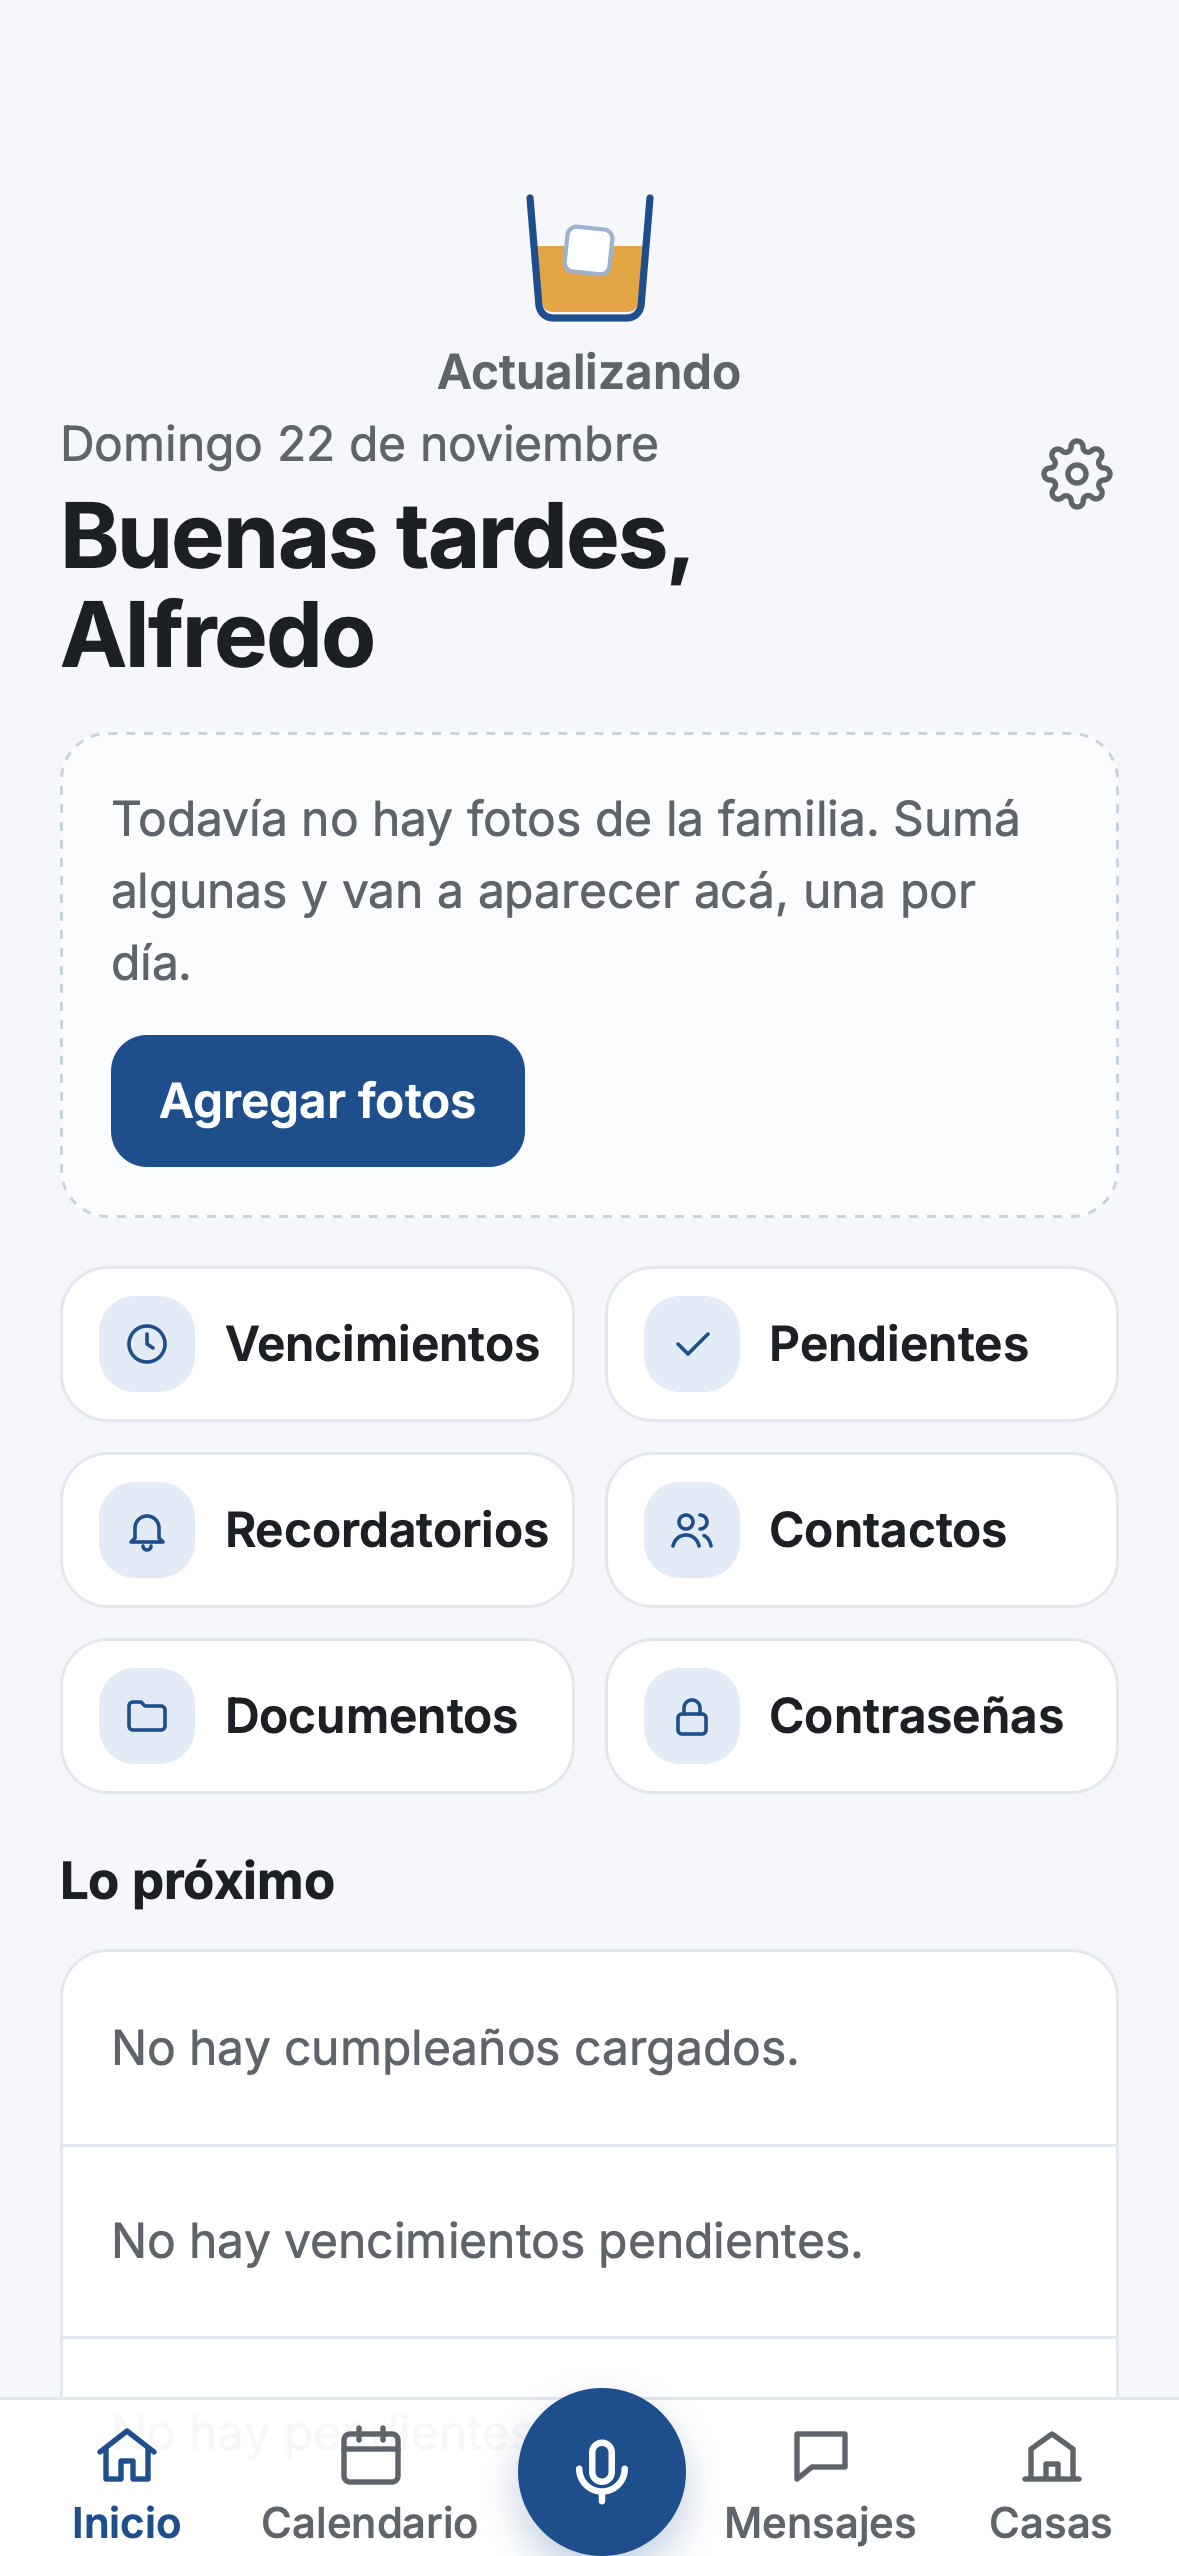
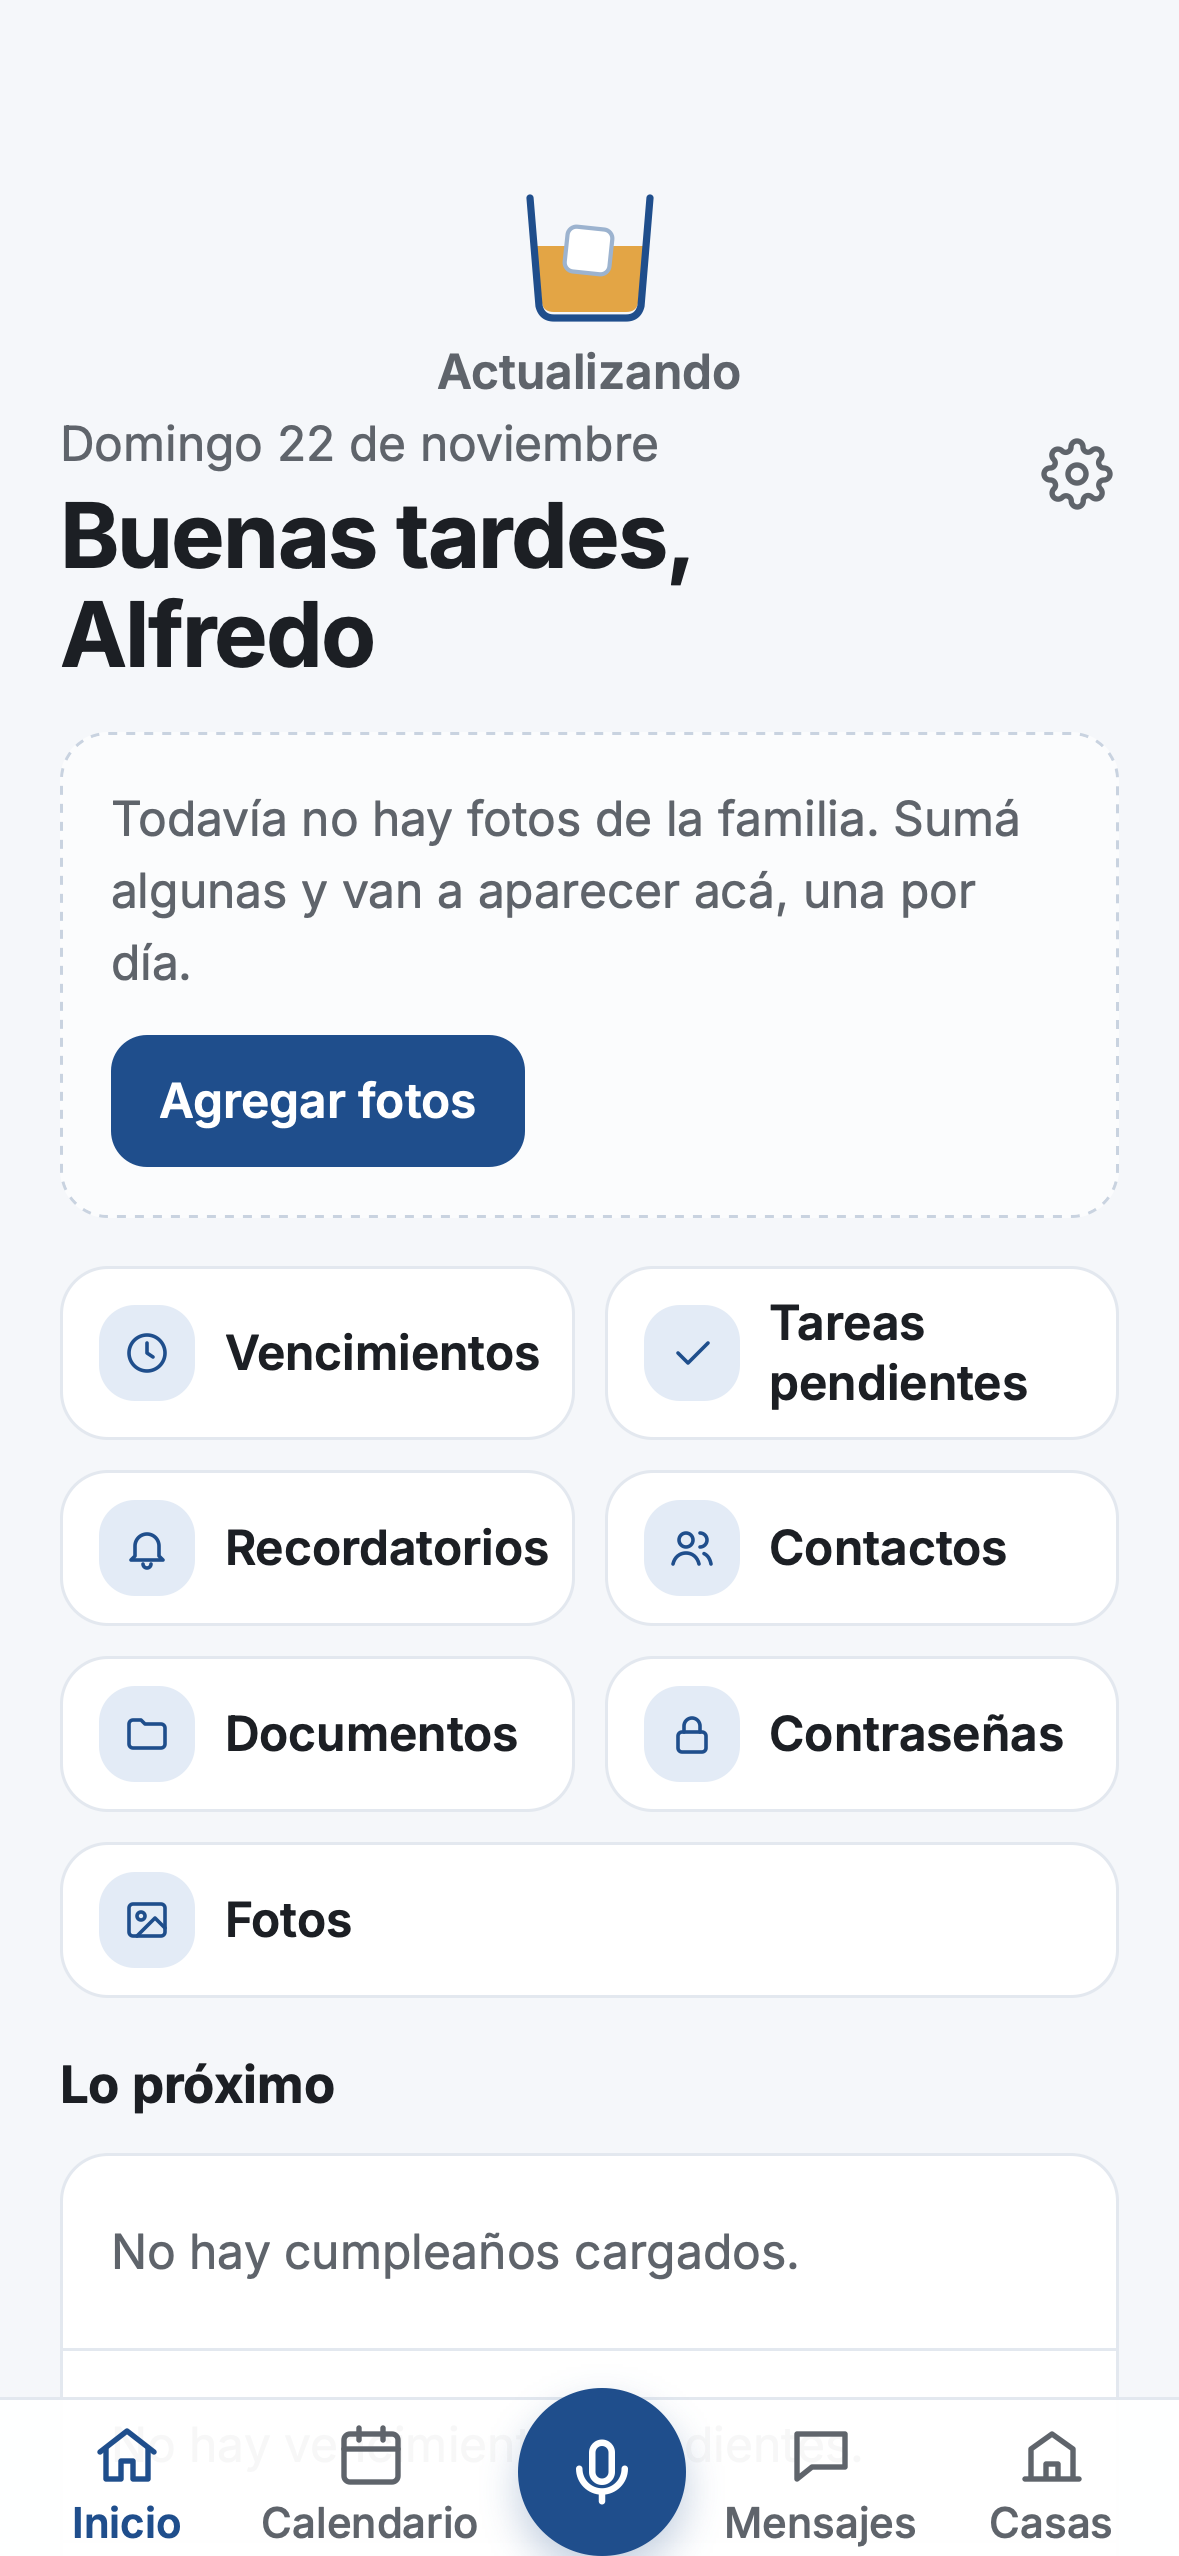
docs: review screenshots of round 4 (AlfredIA, recurrence, postpone, photos)
51 numbered screenshots in docs/capturas-revision/ (iPhone 15, WebKit). New in this
round (42–51): the cabezón intro (golf and padel), Inicio with the Fotos access and
"Ver todas", Calendario with a weekly "Otra" date, the reminder form with "Se repite"
and the gray "Elegí", the postpone sheet, the photo framing preview and the big photo.
Screens 01–41 are retaken with the round 4 changes ("Tareas pendientes", the Flor alone).

diff --git a/tests/e2e/capturas.spec.ts b/tests/e2e/capturas.spec.ts
@@ -115,7 +115,7 @@ test('captura calendario el día del cumple y el saludo @capturas', async ({ pag
   await resetear(page, { hoy: '2026-11-25', config: { nombre: 'Alfredo' }, datos: { fechas: [
     { nombre: 'Ana Pérez', tipo: 'cumple', dia: '11-25', anioNacimiento: 1990 },
     { nombre: 'Día del abuelo', tipo: 'otra', dia: '11-30' },
-    { nombre: 'Luis y Marta', tipo: 'aniversario', dia: '12-03' },
+    { nombre: 'Aniversario de Luis y Marta', tipo: 'otra', dia: '12-03' },
     { nombre: 'Sofía Rodríguez', tipo: 'cumple', dia: '12-08', anioNacimiento: 1985 },
   ] } })
   await entrarComo(page, 'owner')
@@ -234,3 +234,84 @@ test('captura brindis del 25 de noviembre (whisky) @capturas', async ({ page }, 
   await page.waitForTimeout(2600)
   await foto(page, 'detalle-brindis', info.project.name)
 })
+
+// ── Ronda 4 ──────────────────────────────────────────────────────────────────────────────────────────────────────
+test('captura calendario: otra fecha que se repite @capturas', async ({ page }, info) => {
+  await resetear(page, { hoy: '2026-11-22', config: { nombre: 'Alfredo' } })
+  await entrarComo(page, 'owner')
+  await page.goto('/calendario')
+  const agregar = page.getByRole('button', { name: 'Agregar fecha' })
+  await hidratado(agregar)
+  await agregar.click()
+  const hoja = page.getByRole('dialog', { name: 'Nueva fecha' })
+  await hoja.getByLabel('Nombre').fill('Truco en el club')
+  await hoja.getByRole('radio', { name: 'Otra' }).click()
+  await hoja.getByLabel('Se repite').selectOption('semanal')
+  await hoja.getByLabel('Día', { exact: true }).selectOption('5')
+  await hoja.getByLabel('Mes').selectOption('11')
+  await hoja.getByLabel('Año (desde)').fill('2026')
+  await hoja.getByLabel('Hora (opcional)').fill('18:30')
+  await foto(page, 'r4-calendario-otra-se-repite', info.project.name)
+  await hoja.getByRole('button', { name: 'Guardar' }).click()
+  await expect(page.getByRole('dialog')).toHaveCount(0)
+  await paginaEntera(page, path.join(RAIZ, info.project.name, 'r4-calendario-lista-repeticion.png'))
+})
+
+test('captura recordatorios: nuevo con "Se repite" y posponer eligiendo cuánto @capturas', async ({ page }, info) => {
+  await resetear(page, { hoy: '2026-10-26', config: { nombre: 'Alfredo' } })
+  await entrarComo(page, 'owner')
+  await page.goto('/recordatorios')
+  const agregar = page.getByRole('button', { name: 'Agregar recordatorio' })
+  await hidratado(agregar)
+  await agregar.click()
+  const hoja = page.getByRole('dialog', { name: 'Agregar recordatorio' })
+  await foto(page, 'r4-recordatorio-nuevo-vacio', info.project.name)
+  await hoja.getByLabel('Título').fill('Pagar la cuota del club')
+  await hoja.getByLabel('Se repite').selectOption('mensual')
+  await hoja.getByLabel('Día', { exact: true }).selectOption('10')
+  await hoja.getByLabel('Mes').selectOption('11')
+  await hoja.getByRole('button', { name: 'Otro' }).click()
+  await hoja.getByLabel('Cantidad').fill('2')
+  await hoja.getByLabel('Unidad').selectOption('dias')
+  await foto(page, 'r4-recordatorio-nuevo', info.project.name)
+  await page.reload()
+  const posponer = page.getByRole('article', { name: 'Gestionar Navidad' }).getByRole('button', { name: 'Posponer' })
+  await hidratado(posponer)
+  await posponer.click()
+  await expect(page.getByRole('dialog', { name: 'Posponer Gestionar Navidad' })).toBeVisible()
+  await page.waitForTimeout(400)
+  await foto(page, 'r4-recordatorio-posponer', info.project.name)
+})
+
+test('captura fotos: vista previa para encuadrar y foto grande @capturas', async ({ page }, info) => {
+  await resetear(page, { hoy: '2026-11-22', config: { nombre: 'Alfredo' } })
+  await entrarComo(page, 'owner')
+  await page.goto('/fotos')
+  await hidratado(page.getByText('Elegir varias'))
+  const f = path.join(__dirname, 'fixtures', 'foto.jpg')
+  await page.locator('input[type=file][multiple]').setInputFiles([f, f, f])
+  const hoja = page.getByRole('dialog', { name: 'Subir fotos' })
+  await expect(hoja.getByRole('button', { name: 'Subir 3 fotos' })).toBeVisible()
+  await page.waitForTimeout(400)
+  await foto(page, 'r4-fotos-vista-previa', info.project.name)
+  await hoja.getByRole('button', { name: 'Subir 3 fotos' }).click()
+  await expect(page.getByRole('img', { name: 'Foto familiar' })).toHaveCount(3)
+  await page.getByRole('button', { name: 'Ver foto' }).nth(1).click()
+  await expect(page.getByRole('dialog', { name: 'Foto' }).getByText('2 de 3')).toBeVisible()
+  await page.waitForTimeout(300)
+  await foto(page, 'r4-fotos-grande', info.project.name)
+  await page.goto('/')
+  await hidratado(page.getByRole('link', { name: 'Ajustes' }))
+  await paginaEntera(page, path.join(RAIZ, info.project.name, 'r4-inicio-accesos-fotos.png'))
+})
+
+for (const escena of ['golf', 'padel'] as const) {
+  test(`captura intro AlfredIA (${escena}) @capturas`, async ({ page }, info) => {
+    await page.addInitScript((e) => localStorage.setItem('alfredia:con-intro', e), escena)
+    await page.goto('/entrar')
+    await expect(page.locator('#intro')).toBeVisible()
+    await page.waitForTimeout(escena === 'golf' ? 1900 : 1500) // el último cuadro (golf4 / padel3)
+    // sin 'animations: disabled': terminaría la animación de salida y la intro ya no se vería
+    await page.screenshot({ path: path.join(RAIZ, info.project.name, `r4-intro-${escena}.png`) })
+  })
+}
